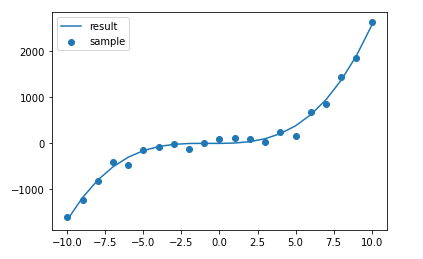
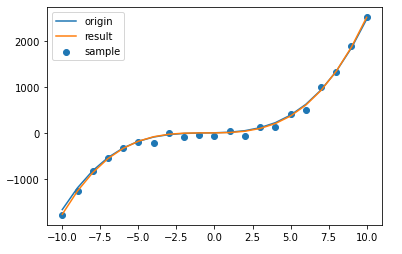
save

Changed region(s): [[0.0299, 0.0276, 0.9552, 0.9646]]

diff --git a/source/_posts/gradient-descent.md b/source/_posts/gradient-descent.md
@@ -122,6 +122,7 @@ for i in range(epochs):
 result_y = np.polyval(weights, ground_truth_x)
 
 plt.scatter(ground_truth_x, ground_truth_y_noise, label='sample')
+plt.plot(ground_truth_x, ground_truth_y, label='origin')
 plt.plot(ground_truth_x, result_y, label='result')
 plt.legend()
 plt.show()
@@ -130,21 +131,21 @@ plt.show()
 输出结果:
 
 ```text
-epoch:0 loss:224137.58528031068
-epoch:1000 loss:7817.904451520894
-epoch:2000 loss:7816.040577617981
-epoch:3000 loss:7815.629924575401
-epoch:4000 loss:7815.225656784621
-epoch:5000 loss:7814.82757311734
-epoch:6000 loss:7814.435531941864
-epoch:7000 loss:7814.049395009907
-epoch:8000 loss:7813.669027372575
-epoch:9000 loss:7813.294297301407
+epoch:0 loss:873603.4097810199
+epoch:1000 loss:3316.4481094125726
+epoch:2000 loss:3313.4402820033943
+epoch:3000 loss:3312.0804748041433
+epoch:4000 loss:3310.724517130056
+epoch:5000 loss:3309.372307816155
+epoch:6000 loss:3308.0238104382984
+epoch:7000 loss:3306.6789893506993
+epoch:8000 loss:3305.337809662464
+epoch:9000 loss:3304.0002372196905
 ```
 
 可以看到其实在第1000个epoch, loss就不怎么降了, 还是强行跑了10k个。
 
-最终输出的权重：array([2.09759084, 4.49785889, 1.57035344, 1.76617769])
+最终输出的权重：array([2.12371171, 3.71908694, 1.83210565, 0.07659884])
 
 图像：
 
